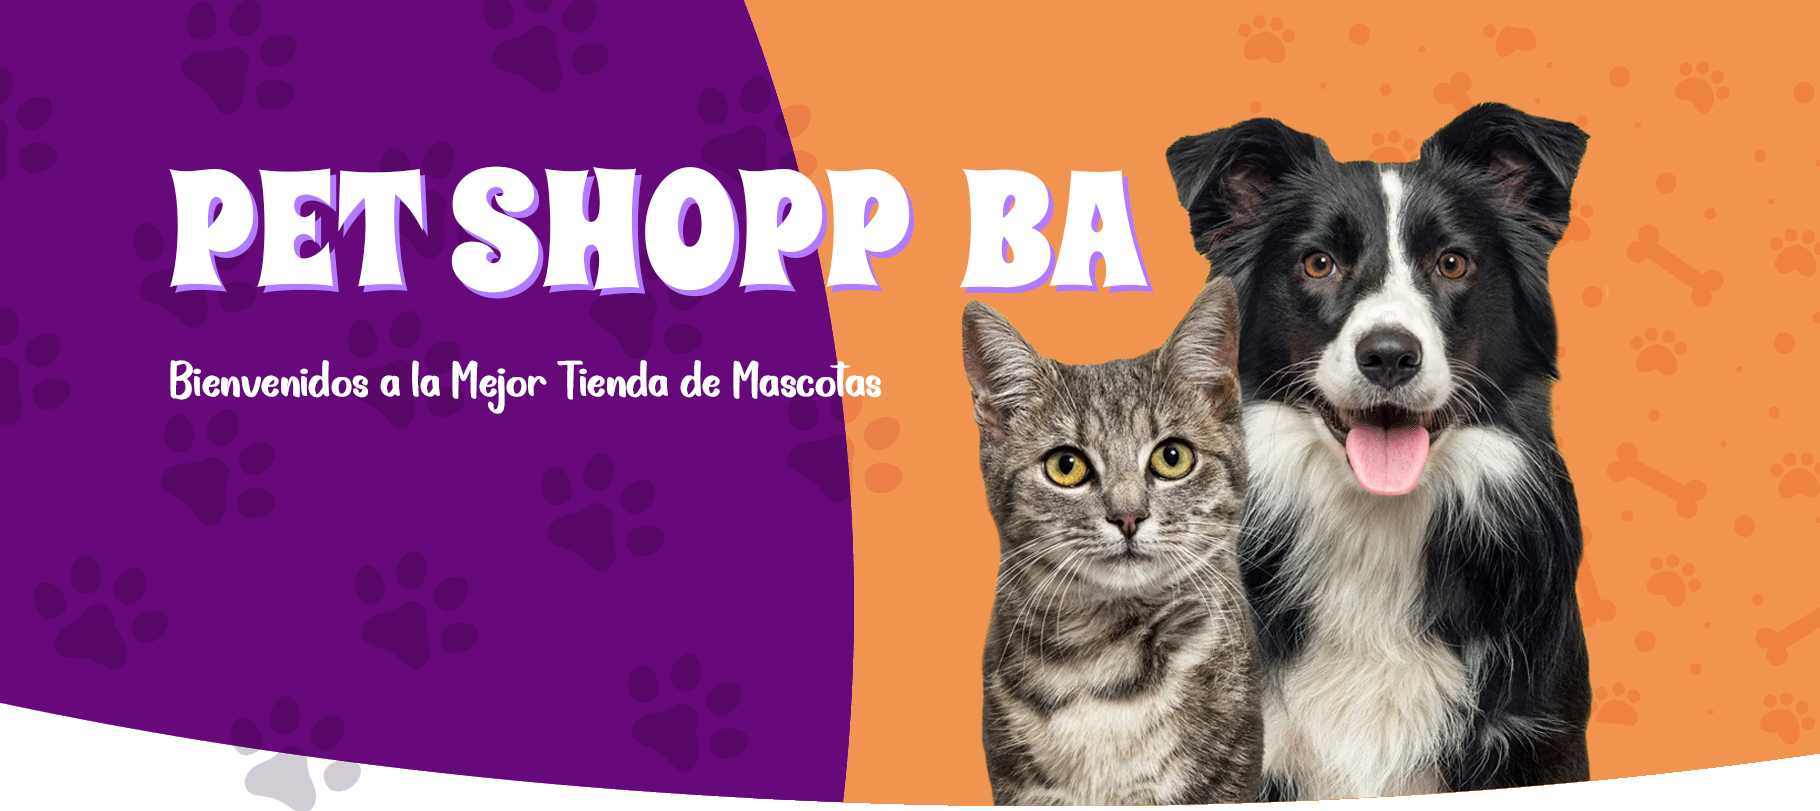
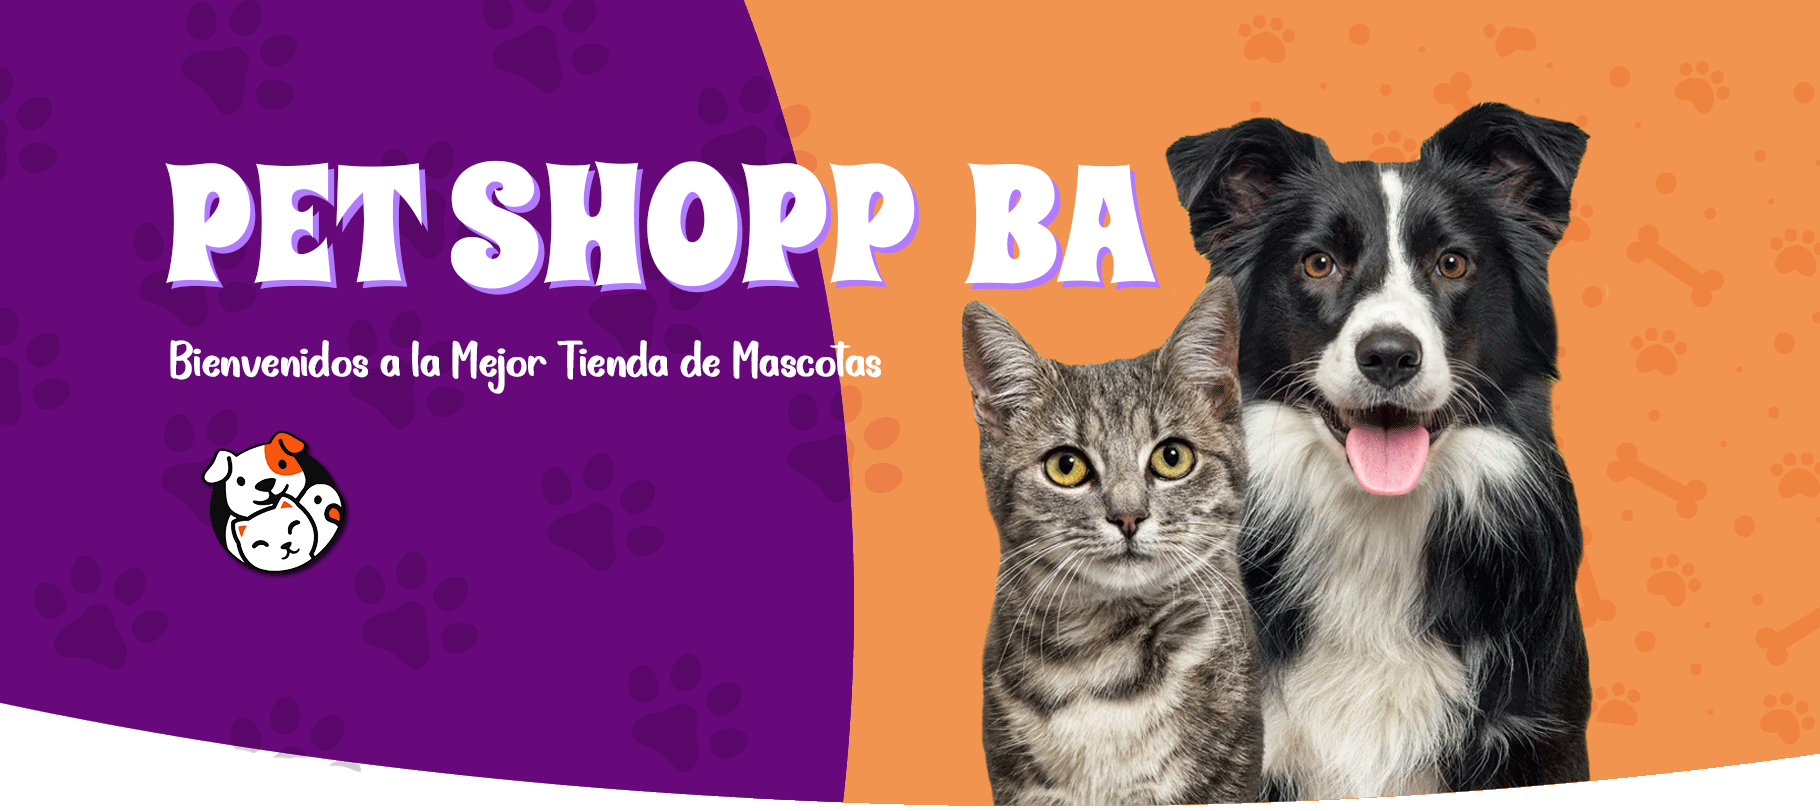
trabajocompleto

diff --git a/pages/servicios.html b/pages/servicios.html
@@ -77,7 +77,7 @@
                 Reservas únicamente por Whatsapp
                 </p>
                 <br>
-                <button class="button">CONSULTAR</button>
+                <a href="https://wa.me/1555887766" target="_blank"><button class="button">CONSULTAR</button></a> 
             </div>
 
             <div class="servicio1_2">
@@ -94,7 +94,7 @@
                         corte a máquina y/o tijera, peinado, <br>
                         limpieza de oídos y corte de uñas. <br>
                         <br>
-                        <button class="button1">CONSULTAR</button>
+                        <a href="https://wa.me/1555887766" target="_blank"><button class="button1">CONSULTAR</button></a>
                     </p>
                 </div>
                 <div class="s2">
@@ -103,7 +103,7 @@
                         peinado, limpieza de oídos y <br>
                         corte de uñas. <br>
                         <br>
-                        <button class="button1">CONSULTAR</button>
+                        <a href="https://wa.me/1555887766" target="_blank"><button class="button1">CONSULTAR</button></a>
                     </p>
                 </div>
                 <div class="s3">
@@ -112,7 +112,7 @@
                         rotura de uñas y mantiene suaves <br>
                         las patitas de tu mascota. <br>
                         <br>
-                        <button class="button1">CONSULTAR</button>
+                        <a href="https://wa.me/1555887766" target="_blank"><button class="button1">CONSULTAR</button></a>
                     </p>
                 </div>
             </div>
@@ -156,7 +156,8 @@
 
                         <tr>
                             <td></td>
-                            <td><button class="button1">CONSULTAR</button></td>
+                            <td><a href="https://wa.me/1555887766" target="_blank"><button class="button1">CONSULTAR</button></a></td>
+                            
                         </tr>
                     </table>
                 </div>
@@ -184,15 +185,13 @@
                         mejor atención y realizar todas las consultas.
                         <br>
                         <br>
-                        <button class="button">WHATSAPP</button> 
+                        <a href="https://wa.me/1555887766" target="_blank"><button class="button">WHATSAPP</button></a>
                     </p>
                 </div>
             </div>
-
         </div>
-
     </div>
-    
+
 
 
     <div class="footer">

diff --git a/style.css b/style.css
@@ -337,7 +337,7 @@ body{
 
     } .main .container {
         width: 100%;
-        height: 1815px;
+        height: 1823px;
         padding: 0;
         margin: 0;
     }
@@ -379,7 +379,6 @@ body{
     } .nosotros1 {
         width: 100%;
         padding: 5px 10px 30px 10px;
-
         margin: auto;
     } .nosotros2 {
         display: none;
@@ -388,6 +387,12 @@ body{
     .main .info{
         width: 100%;
         height: 200px;
+    }.info .info1 img{
+        width: 50px;
+    }.info .info2 img{
+        width: 50px;
+    }.info .info3 img{
+        width: 50px;
     }
 
 }
@@ -901,7 +906,7 @@ body{
         display: flex;
         flex-direction: column;
         flex-wrap: wrap;
-        background-color: black;
+
     }
     
     .footer2 {

diff --git a/index.html b/index.html
@@ -80,8 +80,8 @@
                 desde tu casa,</p>
                 <br>
                 <br>
-                <input class="button" type="button" value="CONTACTO">
-                <input class="button" type="button" value="SERVICIOS">
+                <a href="pages/contacto.html"><input class="button" type="button" value="CONTACTO"></a>                
+                <a href="pages/servicios.html"><input class="button" type="button" value="SERVICIOS"></a>
         </div>
         <div class="nosotros2">
             <img src="img/local.png" alt="Pet Shopp" title="Pet Shopp" width="350px">

diff --git a/pages/contacto.html b/pages/contacto.html
@@ -83,7 +83,7 @@
                 Lunes a Sábados de 9 a 20hs <br>
                 <br>
                 También podes escribirnos por WhatSapp: <br>
-                <a href="https://wa.me/1555887766">+54 1555887766</a>
+                <a href="https://wa.me/1555887766" target="_blank">+54 1555887766</a>
             </p>
         </div>
 </div>
